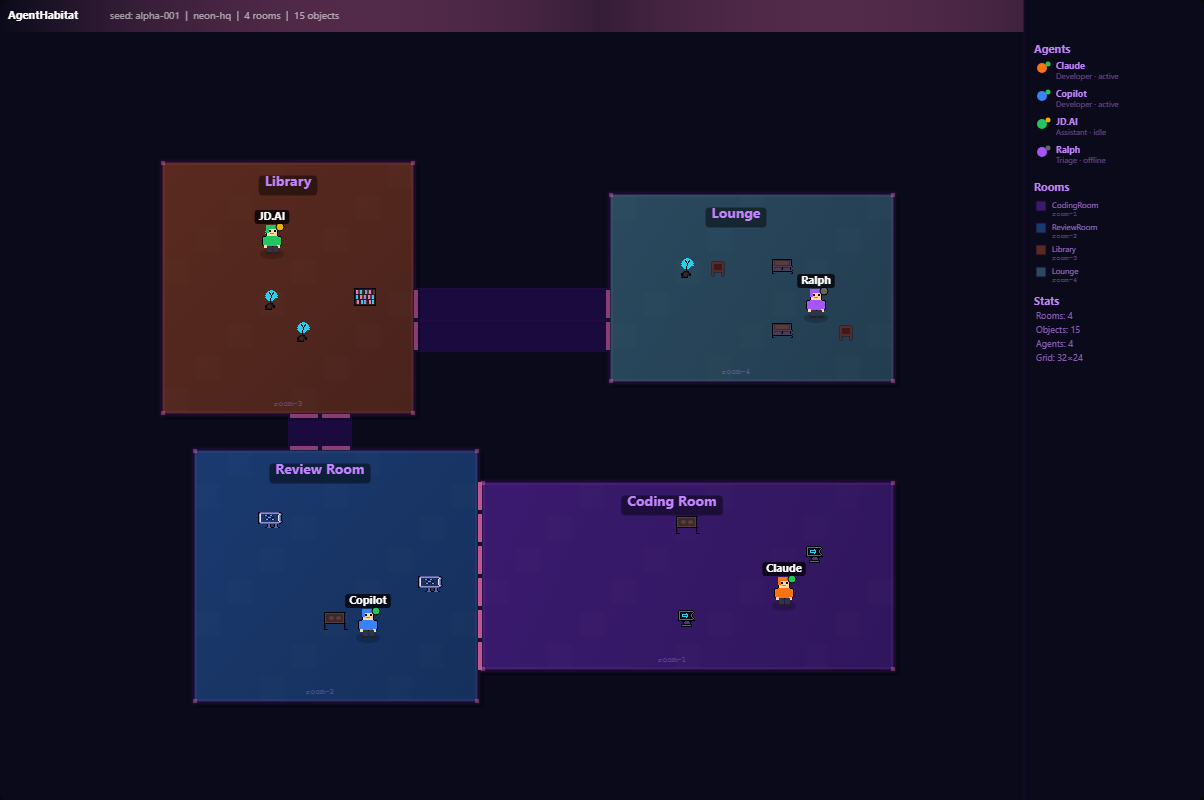
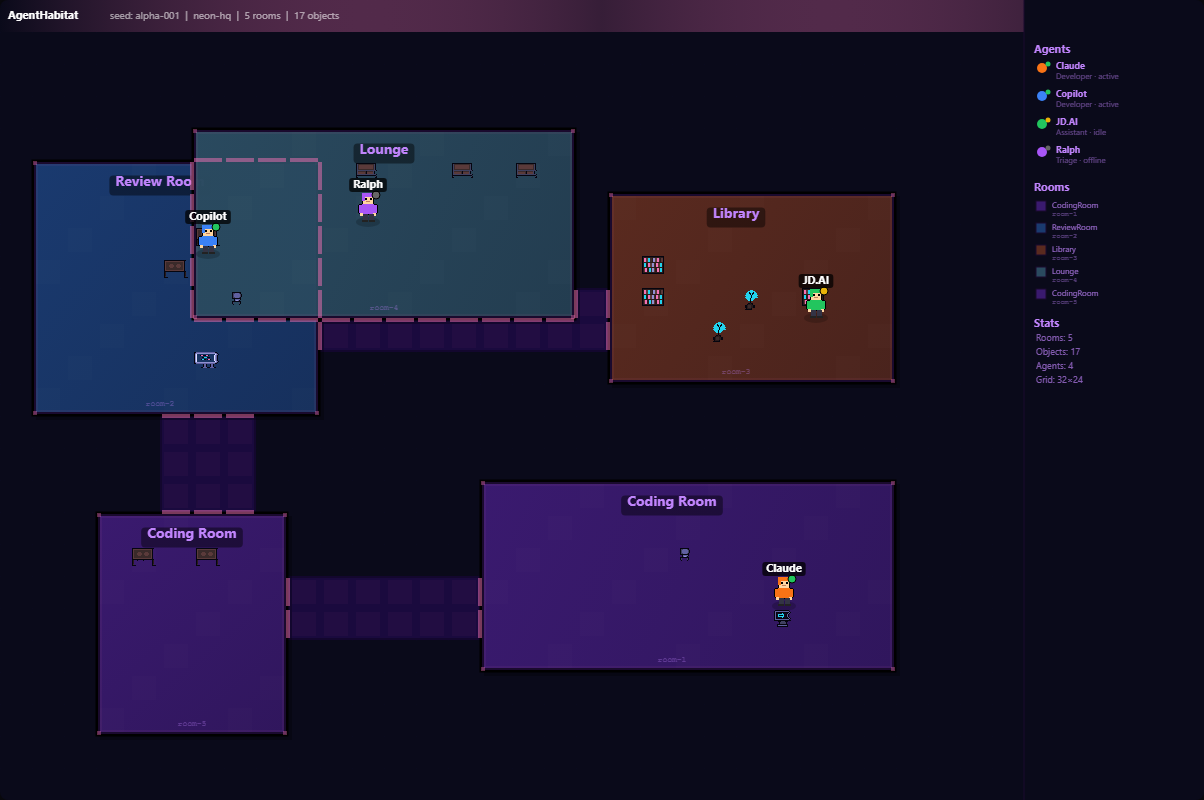
fix(renderer): room spacing, corridor edges, stronger wall borders
Addressing JD's overlap concern + visual polish:
- 2-tile padding between rooms in overlap check (prevents visual crowding)
- Strong black wall borders (3px) with inner wall color (2px) for clear room edges
- Corridor edge definition: dark borders where corridor meets void
- Lighter corridor center strip for navigation path clarity
- Inner room highlight line for depth

diff --git a/tools/worldgen-renderer.html b/tools/worldgen-renderer.html
@@ -143,7 +143,9 @@ function generateWorld(seed, opts) {
 }
 
 function overlap(a, b) {
-  return a.x < b.x + b.w && a.x + a.w > b.x && a.y < b.y + b.h && a.y + a.h > b.y;
+  // Add 2-tile padding between rooms to prevent visual crowding
+  const pad = 2;
+  return a.x - pad < b.x + b.w && a.x + a.w + pad > b.x && a.y - pad < b.y + b.h && a.y + a.h + pad > b.y;
 }
 function carveH(x1, x2, y, w, opts) {
   const cw = opts.corridorWidth || 2;
@@ -300,17 +302,30 @@ function render(canvas, world) {
     }
   }
 
-  // Corridors with subtle texture
+  // Corridors with edge definition
   for (let x = 0; x < W; x++) {
     for (let y = 0; y < H; y++) {
       if (world.walkable[x][y]) {
         const inRoom = world.rooms.some(r => x >= r.x && x < r.x+r.w && y >= r.y && y < r.y+r.h);
         if (!inRoom) {
+          // Corridor floor
           ctx.fillStyle = pal.corridor;
           ctx.fillRect(x*tileSize, y*tileSize + oY, tileSize, tileSize);
-          // Corridor edge highlight
-          ctx.fillStyle = pal.accent + '08';
-          ctx.fillRect(x*tileSize, y*tileSize + oY, tileSize, 1);
+          // Lighter center strip
+          ctx.fillStyle = pal.accent + '0a';
+          ctx.fillRect(x*tileSize + 4, y*tileSize + oY + 4, tileSize - 8, tileSize - 8);
+          // Dark edge where corridor meets void
+          const dirs = [[0,-1],[0,1],[-1,0],[1,0]];
+          for (const [dx,dy] of dirs) {
+            const nx = x+dx, ny = y+dy;
+            if (nx < 0 || ny < 0 || nx >= W || ny >= H || !world.walkable[nx][ny]) {
+              ctx.fillStyle = '#00000040';
+              if (dx === -1) ctx.fillRect(x*tileSize, y*tileSize + oY, 2, tileSize);
+              if (dx === 1) ctx.fillRect(x*tileSize + tileSize - 2, y*tileSize + oY, 2, tileSize);
+              if (dy === -1) ctx.fillRect(x*tileSize, y*tileSize + oY, tileSize, 2);
+              if (dy === 1) ctx.fillRect(x*tileSize, y*tileSize + oY + tileSize - 2, tileSize, 2);
+            }
+          }
         }
       }
     }
@@ -342,13 +357,17 @@ function render(canvas, world) {
       }
     }
 
-    // Wall border (double line for depth)
-    ctx.strokeStyle = pal.wall;
+    // Strong wall border (clear room boundary)
+    ctx.strokeStyle = '#000000';
     ctx.lineWidth = 3;
     ctx.strokeRect(rx + 1, ry + 1, rw - 2, rh - 2);
-    ctx.strokeStyle = pal.accent + '25';
+    ctx.strokeStyle = pal.wall;
+    ctx.lineWidth = 2;
+    ctx.strokeRect(rx + 3, ry + 3, rw - 6, rh - 6);
+    // Inner highlight
+    ctx.strokeStyle = pal.accent + '20';
     ctx.lineWidth = 1;
-    ctx.strokeRect(rx + 4, ry + 4, rw - 8, rh - 8);
+    ctx.strokeRect(rx + 5, ry + 5, rw - 10, rh - 10);
 
     // Corner accents
     const cs = 4;
